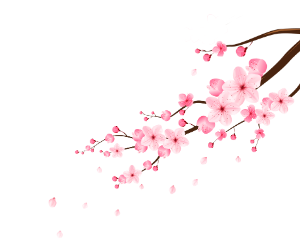
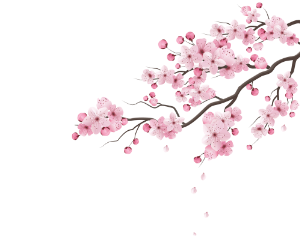
update

diff --git a/style.css b/style.css
@@ -5,7 +5,6 @@
 }
 
 
-
     /*---------------MAIN--------------------------------------------------------------- */
 
     .firstsection
@@ -54,6 +53,7 @@
 
     .infographic
     {
+        padding-top: 3.5vh;
         text-align: center;
     }
 
@@ -66,8 +66,35 @@
     .infographic h2
     {
         font-family: raleway;
-        font-size: 1.5vw;
+        font-size: 1.3vw;
         font-weight: normal;
+        line-height: 2.8vw;
+    }
+
+    #blomst1
+    {
+        float:right;
+        position: relative;
+        top: -85vh; 
+        width: 20%;
+    }
+
+    #blomst2
+    {
+        float:left;
+        position: relative;
+        top: -30vh; 
+        width: 20%;
+        -webkit-transform: scaleX(-1);
+    }
+
+    #graphic
+    {
+        padding-top: 5vh;
+        width: 60%;
+        margin: auto;
+        padding: auto;
+        display: block;
     }
 
 

diff --git a/index.html b/index.html
@@ -72,7 +72,11 @@
             Vælg dine favorit opskrifter og med blot få klik bliver de leveret <br> direkte til din dør og klar til tilberedning. <br>
             Så nemt er det!
             </h2>
-            <img src="images/blomst.png" alt="food">
+            <img id="graphic" src="images/infographic.png" alt="info">
+            <img id="blomst1" src="images/blomst.png" alt="blomst">
+            <img id="blomst2" src="images/blomst.png" alt="blomst">
+
+
 
         </section>
     </main>
